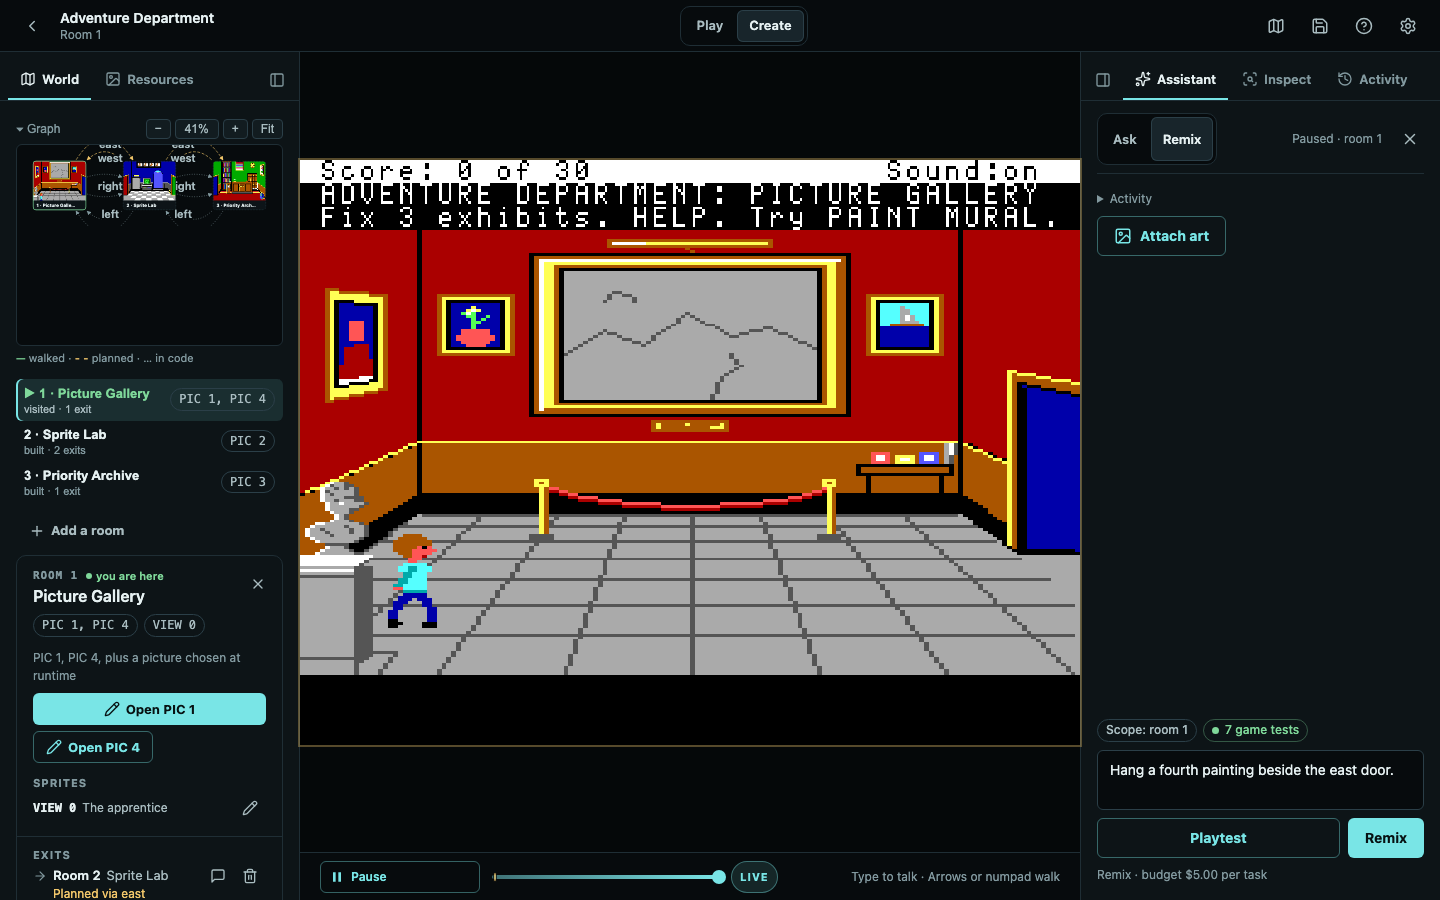
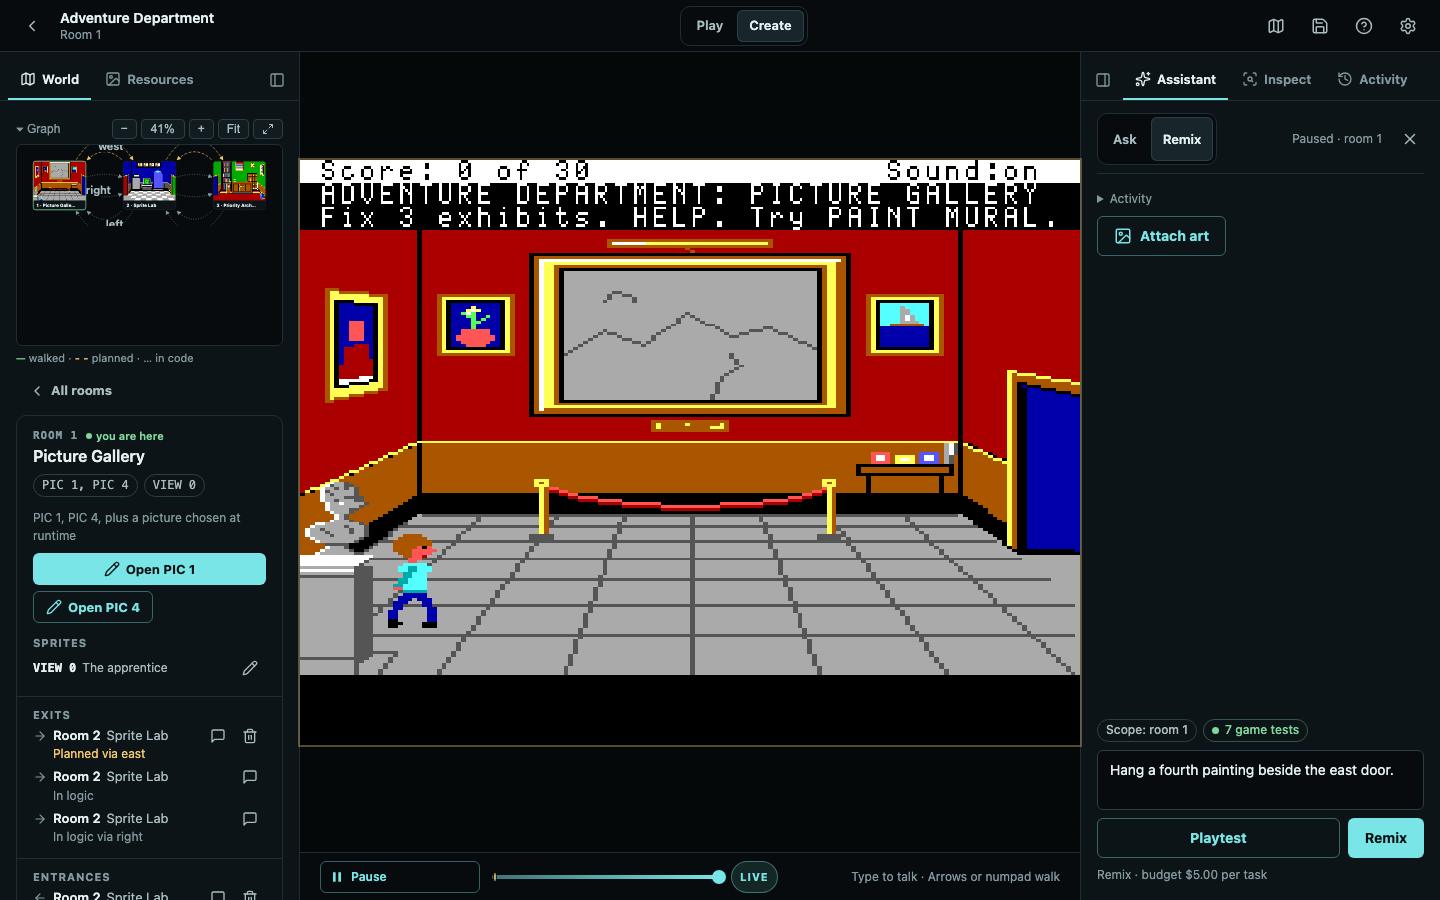
play: no floating "Paused" card over the game; media follow Take control
Pausing live play showed a card holding only "Paused" over the game's
bottom-right corner, next to a Resume button that already says so. The
readout now shows only while the history view is open.

The media capture takes control of a paused walkthrough, which now hands
over a paused game, so it presses Resume before the shot. Create's shot
shows the World panel's room details in place.

Claude-Session: https://claude.ai/code/session_013eG94d83w7WUQJkTvPLo3r

diff --git a/app/e2e/media/docs.media.ts b/app/e2e/media/docs.media.ts
@@ -78,7 +78,7 @@ async function playTutorial(page: Page): Promise<void> {
 
 /**
  * The tutorial from its recorded walkthrough: paused, sought to checkpoint
- * `index`, then played from there. The new session's transport has no marks
+ * `index`, taken over and resumed. The new session's transport has no marks
  * yet and fills once its first batch lands, the same on every run.
  */
 async function takeControlAt(page: Page, index: number): Promise<void> {
@@ -95,6 +95,8 @@ async function takeControlAt(page: Page, index: number): Promise<void> {
   await settled(page);
   await page.getByTestId("btn-walkthrough-take-control").click();
   await expect(page.getByTestId("walkthrough-bar")).toBeHidden();
+  // A paused walkthrough hands over a paused game; Resume plays on from here.
+  await page.getByTestId("btn-transport-resume").click();
   await expect(page.locator(".play-strip .transport-progress-fill")).toHaveAttribute(
     "style",
     /width: 100%/,

diff --git a/app/e2e/history-transport.spec.ts b/app/e2e/history-transport.spec.ts
@@ -139,6 +139,8 @@ test("the transport rides live play from boot; the timeline enters the tape and 
   await pause.click();
   await expect.poll(async () => (await textHook(page)).paused).toBe(true);
   await expect.poll(async () => (await viewState(page))?.parked).toBe(true);
+  // Paused at LIVE, Resume carries the state: no card floats over the game.
+  await expect(page.locator(".transport-secondary:visible")).toHaveCount(0);
   await page.getByTestId("btn-transport-resume").click();
   await expect.poll(async () => (await textHook(page)).paused).toBe(false);
 

diff --git a/app/src/history/useHistoryView.ts b/app/src/history/useHistoryView.ts
@@ -1213,8 +1213,7 @@ export function useHistoryView(deps: HistoryViewDeps) {
         const pct = total > 0 ? Math.round((flatPosition() / total) * 100) : 0;
         return `Room ${v.room} · ${pct}%${v.seeking ? " · replaying…" : ""}`;
       }
-      if (v.parked) return "Paused";
-      // Live: the LIVE button already says so.
+      // Live or paused at LIVE: the LIVE and Resume buttons already say so.
       return undefined;
     },
     posTestid: "history-pos",
